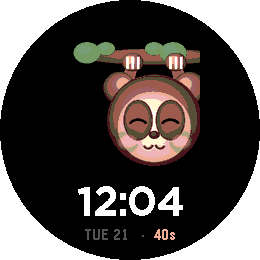
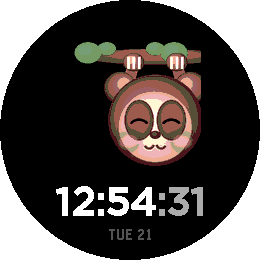
feat(signal-piu): sloth time as one-line HH:MM:SS, seconds dimmed same-size
Per design feedback: bring the seconds back onto the HH:MM line at the SAME
42px display size rather than a small accent on the date line. HH:MM stays
white; the seconds are the same size but dimmed grey (#a0a0a0) so they read as
a quiet member of the readout instead of a competing block. The date keeps its
own muted uppercased line (no seconds). Two Styles share one Bitham font —
only the colour differs.

Device-verified on gabbro (round) + emery (rect), open + blink frames; all
four catalog screenshots refreshed, README row updated.

diff --git a/src/tsx/examples/sloth.tsx b/src/tsx/examples/sloth.tsx
@@ -6,22 +6,23 @@
 // framebuffer, NOT the 32KB XS heap — see README "Bitmaps".
 //
 // Layout (design pass): the sloth is the hero; the type is its calm
-// counterpoint. HH:MM is the one confident white readout; the seconds drop to
-// a quiet supporting line as the SINGLE warm accent drawn from the fur, so the
-// eye reads the time first and the live tick second. The date recedes (muted
-// grey, uppercased). On round a slim spacer nudges the group down so the
-// branch clears the bezel. Build: APP=sloth ./build.sh
+// counterpoint. HH:MM:SS sits on one baseline at the SAME 42px size — HH:MM in
+// confident white, the seconds only dimmed grey, so the live tick reads as a
+// quiet member of the readout rather than a competing block. The date recedes
+// on its own line (muted grey, uppercased). On round a slim spacer nudges the
+// group down so the branch clears the bezel. Build: APP=sloth ./build.sh
 import { render, screen } from "runtime/jsx-runtime";
 import { useState } from "runtime/signals";
 declare const Texture: any;
 
 const bg = new Skin({ fill: "black" });
-// the one confident element — white, high-contrast display face
+// time on ONE line, same 42px display face: HH:MM confident white, the seconds
+// the SAME size but dimmed grey so they read as the quiet live tick, not a
+// competing block. Two Styles, one font — only the colour differs.
 const hm = new Style({ font: "bold 42px Bitham", color: "white" });
-// supporting line: the date recedes (muted grey); the seconds carry the lone
-// warm accent pulled from the sloth's own fur palette
+const sec = new Style({ font: "bold 42px Bitham", color: "#a0a0a0" });
+// the date recedes on its own line: muted grey, uppercased
 const dim = new Style({ font: "18px Gothic", color: "#7a7a7a" });
-const warm = new Style({ font: "18px Gothic", color: "#e6a96b" });
 
 // one sheet, 140px frames, variant N = the Nth 140px slice (0 open, 1 closed)
 const sheet = new Skin({ texture: new Texture("sloth.png"), x: 0, y: 0, width: 140, height: 140, variants: 140 });
@@ -38,7 +39,7 @@ const [step, setStep] = useState(0);
 function tick() {
 	const d = new Date();
 	setHhmm(two(d.getHours()) + ":" + two(d.getMinutes()));
-	setSecs(two(d.getSeconds()));
+	setSecs(":" + two(d.getSeconds()));
 	setDay(DOW[d.getDay()] + " " + d.getDate());
 }
 tick();
@@ -52,11 +53,12 @@ render(() => (
 			    clears the top bezel (the centered column re-balances) */}
 			<Content width={2} height={screen.round ? 24 : 1} />
 			<Content width={140} height={140} skin={sheet} variant={() => BLINK[step()]} />
-			<Label style={hm} string={() => hhmm()} />
+			{/* HH:MM:SS on one baseline — same 42px size, seconds only dimmed */}
 			<Row>
-				<Label style={dim} string={() => day() + "   ·  "} />
-				<Label style={warm} string={() => secs() + "s"} />
+				<Label style={hm} string={() => hhmm()} />
+				<Label style={sec} string={() => secs()} />
 			</Row>
+			<Label style={dim} string={() => day()} />
 		</Column>
 	</Container>
 ), { skin: bg, style: hm });

diff --git a/README.md b/README.md
@@ -141,7 +141,7 @@ square screenshots below come from identical `.tsx`.
 | `richlist` | **rich recycled rows** (`renderRow`): 2-column row, 1 visible, scrollable | multi-element rows, not just text | ✅ `richlist-gabbro-*.png` | ✅ `richlist-emery-*.png` |
 | `slothface` | **animated sloth watchface** 🦥 (text-frame animation + clock) | timer-driven frame animation via signals | ✅ `slothface-*.png` (awake/blink/sleepy) | — |
 | `imgwatch` | **animated COLOR bitmap watchface** + HH:MM:SS | bundled bitmaps (png2bmp), `Texture`, frame-swap animation | ✅ `imgwatch-red.png` / `imgwatch-blue.png` | — |
-| `sloth` | **polished animated sloth watchface** 🦥 (soft-shaded 140px emoji, sprite-sheet blink; confident white HH:MM with the live seconds dropped to a quiet muted date line as the one warm fur-accent) | one `Texture` sheet, reactive `variant` sprite animation | ✅ `sloth-gabbro-open.png` / `sloth-gabbro-blink.png` | ✅ `sloth-emery-open.png` / `sloth-emery-blink.png` |
+| `sloth` | **polished animated sloth watchface** 🦥 (soft-shaded 140px emoji, sprite-sheet blink; one-line HH:MM:SS at a single 42px size — HH:MM white, the seconds dimmed grey as a quiet live tick — over a muted uppercased date) | one `Texture` sheet, reactive `variant` sprite animation | ✅ `sloth-gabbro-open.png` / `sloth-gabbro-blink.png` | ✅ `sloth-emery-open.png` / `sloth-emery-blink.png` |
 | `slothvec` | **VECTOR sloth watchface** 🦥 (2.8KB PDCS, drawn 2×/120px, SWINGS from the branch AND BLINKS) + one-line HH:MM:SS + date | `SVGImage` + PDC: free scaling, transform animation + native frame sequence, zero pixel RAM | ✅ `slothvec-gabbro.png` / `slothvec-gabbro-blink.png` | ✅ `slothvec-emery.png` / `slothvec-emery-blink.png` |
 | `multilazy` | **lazy multiscreen**: 3 screens, SELECT cycles, ONE built at a time (dispose + on-demand rebuild) | arena holds O(1 screen) — survives repeated full cycles with live bindings | — | ✅ verified (screens cycle, tick binding live after each rebuild) |
 | `multiscreen` | 4 PREBUILT screens in one mod | does NOT boot — kept as the arena-OOM artifact that motivated `multilazy` | ❌ by design | ❌ |
